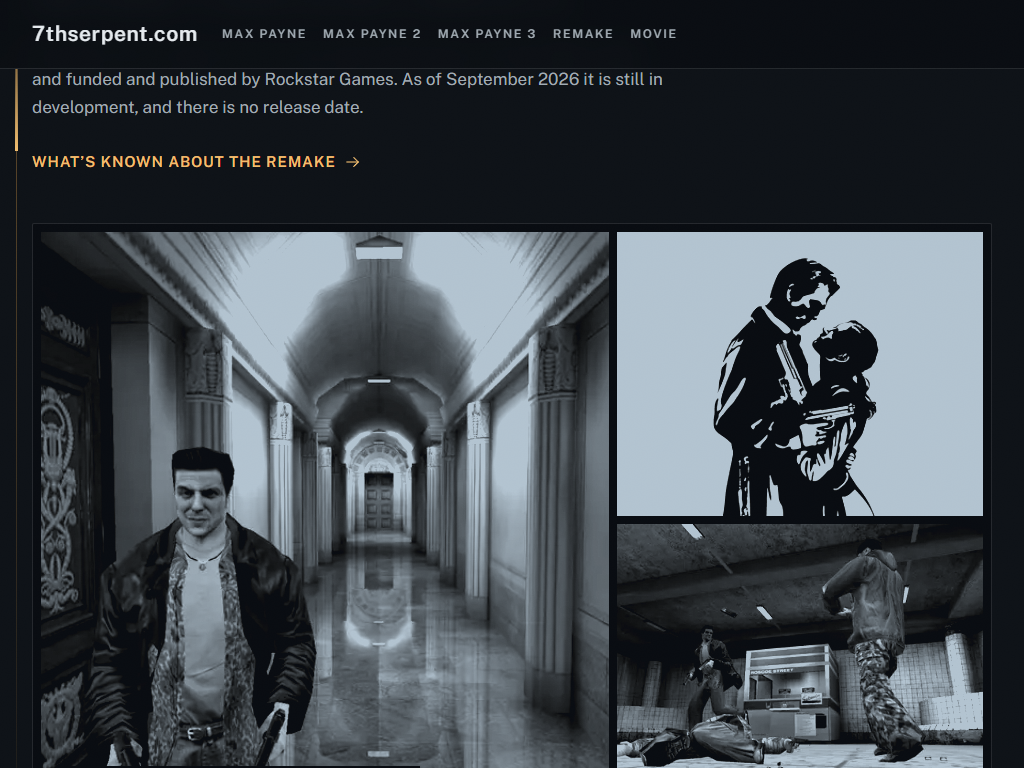
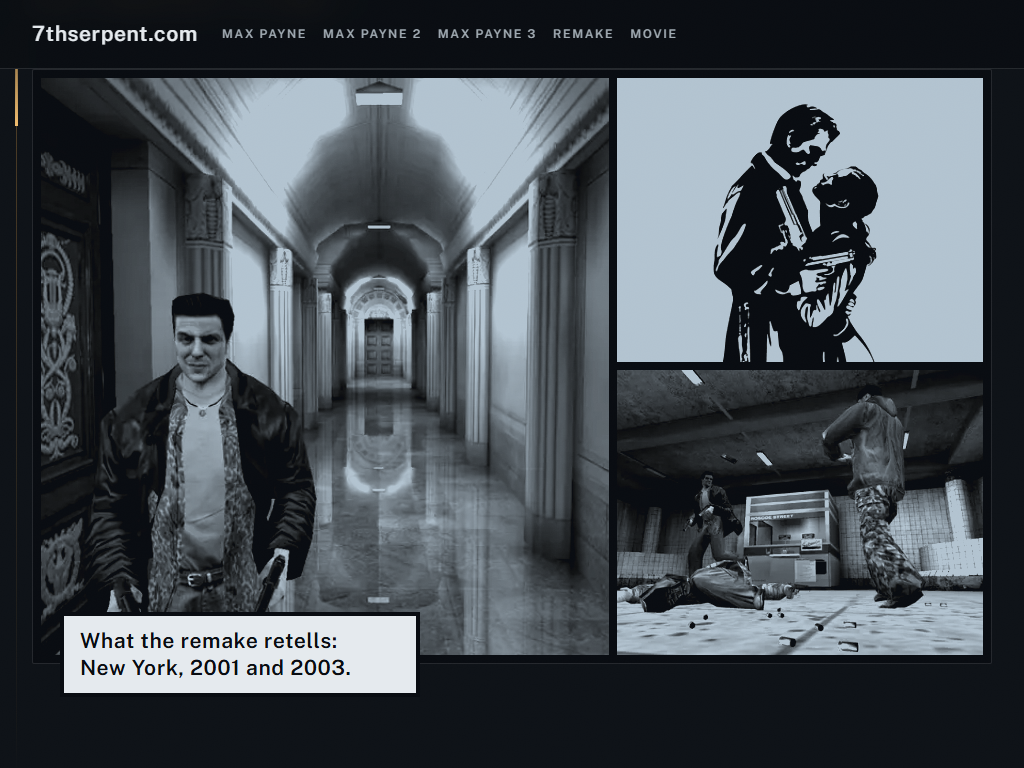
docs/reports/2026-09-24-7thserpent-remake-paneli: две слепые зоны проверки «панели нарисованы» закрыты (R2-KOD-1, R2-KOD-2 раунда 2 «судью судят» сессии 10), материалы пересняты со сборки e012b05 — materialy-priemki.js: кадр окна — по центру панелей вместе с плашкой и её обводкой, а не секции #remak

diff --git a/docs/reports/2026-09-24-7thserpent-remake-paneli/instrumenty/materialy-priemki.js b/docs/reports/2026-09-24-7thserpent-remake-paneli/instrumenty/materialy-priemki.js
@@ -11,9 +11,19 @@
 //      текст давал разброс выше порога и у пустой панели — большая панель и mp1-k06 на 1440
 //      и 390 проходили бы пустыми (K1 «судью судят» сессии 10). У панели, на которую плашка
 //      заходит, рамка обрезается по верх плашки минус обводка; остаток ниже 24 px — стоп.
-//   4. Самопроверка в каждом окне: картинки панелей скрываются (visibility: hidden), кадр
-//      окна снимается без записи, и та же мерка обязана дать у всех трёх разброс ниже 8 —
-//      иначе проверка слепа, стоп. Потом картинки возвращаются.
+//   4. Самопроверка в каждом окне, три состояния: картинки панелей скрыты (visibility:
+//      hidden), залиты ровным белым и ровным серым (filter: brightness(0) invert(1) и
+//      invert(0.5)); кадр окна без записи, и та же мерка обязана дать у всех трёх панелей
+//      разброс ниже 8 — иначе проверка слепа, стоп. Потом стиль снимается. Скрытые
+//      картинки дают цвет фона — как строка зазора и обводки плашки, поэтому одна эта
+//      самопроверка не видела рамку, захватившую чужую строку (R2-KOD-2 «судью судят»).
+//   5. Кадр окна — по центру панелей вместе с плашкой и её обводкой, а не секции: на 1024
+//      секция выше окна, и по её центру плашка, которая называет оригиналы, уходила из кадра,
+//      а рамка нижней панели — за низ холста, где getImageData даёт прозрачные нули
+//      (R2-KOD-1). Не помещаются в окно — стоп.
+//   6. Рамка панели округляется внутрь (x, y — вверх; правый и нижний край — вниз) и обязана
+//      лежать в окне целиком — иначе стоп: в мерку не попадают ни строка зазора, ни обводка
+//      плашки, ни пиксели вне холста.
 // Порядок, как у драйвера эталона (П16): одна загрузка на 1920, окна по убыванию без
 // перезагрузки; сверка currentSrc всех картинок до и после полного кадра — подмена стоп;
 // свет фонаря в арте героя в кадре окна и в полном кадре — отсутствие стоп.
@@ -63,36 +73,52 @@ async (page) => {
     const podmen = srcDo.filter((s, i) => s !== srcPosle[i]).length;
     log.push(`${w}x${h}: ${g.img}/${g.img} картинок, страница ${g.h}px, свет фонаря в арте: окно ${(okno.svet * 100).toFixed(1)} %, полный кадр ${(full.svet * 100).toFixed(1)} %, подмен кандидата ${podmen}`);
     if (okno.svet < 0.05 || full.svet < 0.05 || podmen) throw new Error('СТОП: на ' + w + ' арт не нарисован или кандидат подменён\n' + log.join('\n'));
-    // кадр окна по ряду ремейка
-    const { panele, plashka } = await page.evaluate(async () => {
+    // кадр окна по ряду ремейка — по центру панелей с плашкой (п. 5 шапки)
+    const { panele, plashka, blok, okno: ok } = await page.evaluate(async () => {
       const el = document.getElementById('remake');
-      el.scrollIntoView({ block: 'center', behavior: 'instant' });
+      const pan = el.querySelector('.panele');
+      const p = el.querySelector('.plashka');
+      const o = p ? parseFloat(getComputedStyle(p).outlineWidth) || 0 : 0;
+      const r0 = pan.getBoundingClientRect(), r1 = p ? p.getBoundingClientRect() : r0;
+      const gora = Math.min(r0.top, r1.top - o) + scrollY, niz = Math.max(r0.bottom, r1.bottom + o) + scrollY;
+      window.scrollTo({ top: Math.round((gora + niz) / 2 - innerHeight / 2), behavior: 'instant' });
       await new Promise((r) => setTimeout(r, 300));
       const rect = (e) => { const b = e.getBoundingClientRect(); return { x: b.x, y: b.y, w: b.width, h: b.height }; };
-      const p = el.querySelector('.plashka');
       return {
         panele: [...el.querySelectorAll('.panele img')].map(rect),
-        plashka: p ? { ...rect(p), obvodka: parseFloat(getComputedStyle(p).outlineWidth) || 0 } : null,
+        plashka: p ? { ...rect(p), obvodka: o } : null,
+        blok: { gora: gora - scrollY, niz: niz - scrollY },
+        okno: { w: innerWidth, h: innerHeight },
       };
     });
-    // рамка панели без плашки (п. 3 шапки)
+    if (blok.gora < 0 || blok.niz > ok.h) throw new Error('СТОП: панели с плашкой не помещаются в окно ' + w + 'x' + h + ': ' + JSON.stringify(blok));
+    // рамка панели без плашки (п. 3), округлённая внутрь и целиком в окне (п. 6)
     const ramki = panele.map((r) => {
-      if (!plashka) return r;
-      const o = plashka.obvodka, verh = plashka.y - o;
-      const zahodit = plashka.x - o < r.x + r.w && plashka.x + plashka.w + o > r.x && verh < r.y + r.h && plashka.y + plashka.h + o > r.y;
-      return zahodit ? { ...r, h: verh - r.y } : r;
+      let { x, y, w: rw, h: rh } = r;
+      if (plashka) {
+        const o = plashka.obvodka, verh = plashka.y - o;
+        const zahodit = plashka.x - o < x + rw && plashka.x + plashka.w + o > x && verh < y + rh && plashka.y + plashka.h + o > y;
+        if (zahodit) rh = verh - y;
+      }
+      const x0 = Math.ceil(x), y0 = Math.ceil(y), x1 = Math.floor(x + rw), y1 = Math.floor(y + rh);
+      return { x: x0, y: y0, w: x1 - x0, h: y1 - y0 };
     });
-    if (ramki.some((r) => r.h < 24)) throw new Error('СТОП: рамка панели без плашки ниже 24 px на ' + w + ': ' + JSON.stringify(ramki));
+    if (ramki.some((r) => r.h < 24 || r.w < 24)) throw new Error('СТОП: рамка панели без плашки меньше 24 px на ' + w + ': ' + JSON.stringify(ramki));
+    if (ramki.some((r) => r.x < 0 || r.y < 0 || r.x + r.w > ok.w || r.y + r.h > ok.h)) throw new Error('СТОП: рамка панели вне окна на ' + w + ': ' + JSON.stringify(ramki));
     await osadka();
     const st = await statOf(await page.screenshot({ path: OUT + `remake-${w}.png`, scale: 'css' }), ramki);
-    // самопроверка (п. 4 шапки): скрытые панели обязаны дать разброс ниже порога
-    await page.addStyleTag({ content: '#remake .panele img { visibility: hidden !important; }' });
+    // самопроверка (п. 4): скрытые и ровно залитые панели обязаны дать разброс ниже порога
+    const samo = [];
+    for (const [imya, css] of [['скрытые', 'visibility: hidden'], ['белые', 'filter: brightness(0) invert(1)'], ['серые', 'filter: brightness(0) invert(0.5)']]) {
+      const tag = await page.addStyleTag({ content: `#remake .panele img { ${css} !important; }` });
+      await osadka();
+      const s = await statOf(await page.screenshot({ scale: 'css' }), ramki);
+      await tag.evaluate((t) => t.remove());
+      samo.push(`${imya} ${s.map((x) => x.sd.toFixed(1)).join(' / ')}`);
+      if (s.some((x) => x.sd >= 8)) throw new Error(`СТОП: проверка слепа — ${imya} панели дали разброс не ниже 8 на ${w}: ${s.map((x) => x.sd.toFixed(1)).join(' / ')}\n` + log.join('\n'));
+    }
     await osadka();
-    const pusto = await statOf(await page.screenshot({ scale: 'css' }), ramki);
-    await page.evaluate(() => document.querySelectorAll('style').forEach((s) => { if (s.textContent.includes('#remake .panele img')) s.remove(); }));
-    await osadka();
-    log.push(`  ряд ремейка ${w}: панелей ${panele.length}, высота рамок без плашки ${ramki.map((r) => r.h.toFixed(0)).join(' / ')}, разброс яркости ${st.map((s) => s.sd.toFixed(1)).join(' / ')}, со скрытыми панелями ${pusto.map((s) => s.sd.toFixed(1)).join(' / ')}`);
-    if (pusto.some((s) => s.sd >= 8)) throw new Error('СТОП: проверка слепа — скрытая панель дала разброс не ниже 8 на ' + w + '\n' + log.join('\n'));
+    log.push(`  ряд ремейка ${w}: панелей ${panele.length}, рамки ${ramki.map((r) => r.w + 'x' + r.h).join(' / ')}, разброс яркости ${st.map((s) => s.sd.toFixed(1)).join(' / ')}; самопроверка: ${samo.join('; ')}`);
     if (panele.length !== 3 || st.some((s) => s.sd < 8)) throw new Error('СТОП: панели ремейка не нарисованы на ' + w + '\n' + log.join('\n'));
   }
   return log.join('\n');
